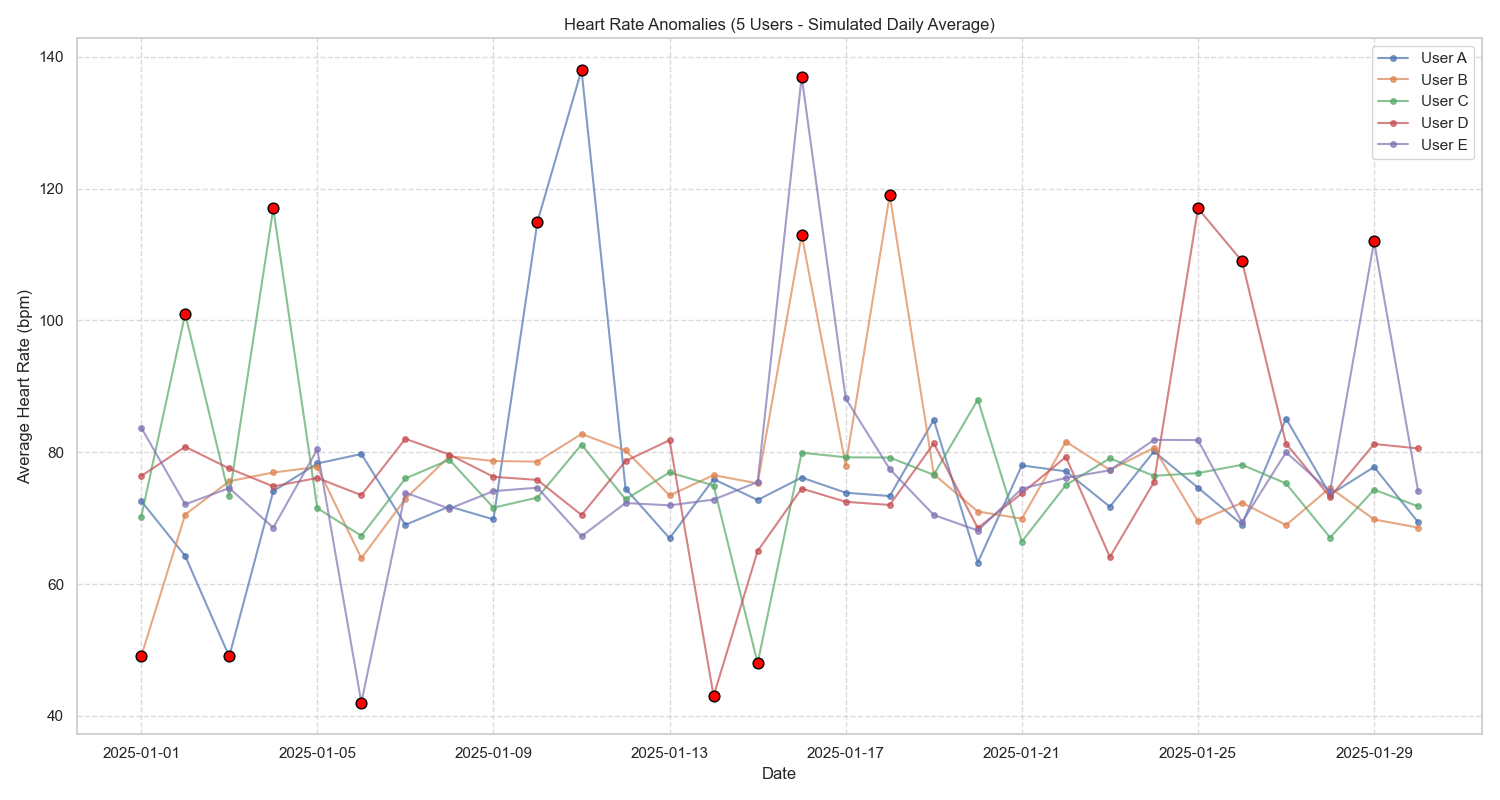
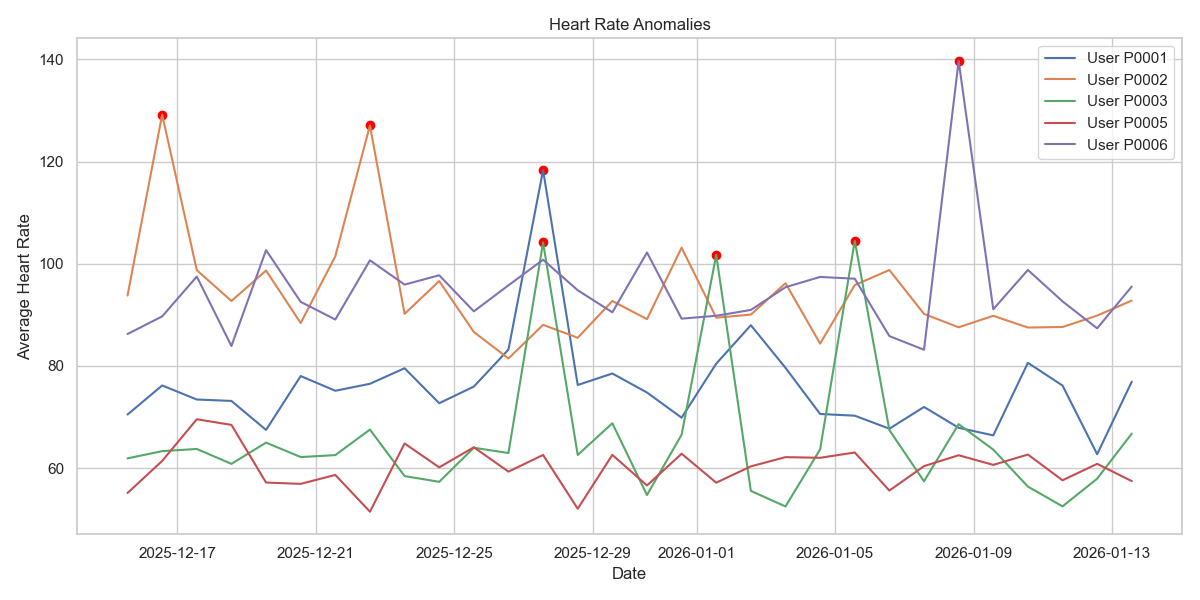
milestone 3

diff --git a/Milestone 3/report_summary.md b/Milestone 3/report_summary.md
@@ -1,34 +1,39 @@
 # Milestone 3: Anomaly Detection and Visualization Report
 
 ## Objective
-The goal of this milestone was to implement anomaly detection on the fitness dataset to identify irregular patterns in heart rate and activity levels. We employed machine learning and statistical methods to detect anomalies and visualized them for deeper insights.
+The goal of this milestone was to implement anomaly detection on the fitness dataset to identify irregular patterns in heart rate and sleep activity. We employed **Prophet** for time-series forecasting and statistical thresholding to detect anomalies.
 
 ## Steps Followed
 
-1.  **Data Loading**:
-    - Loaded the dataset from `data/cleaned_fitness_data.csv`.
+1.  **Data Loading & Preparation**:
+    - Loaded the snapshot dataset from `data/cleaned_fitness_data.csv`.
+    - **Simulation Strategy**: Since the source file contained single-point snapshots, we **seeded a historical simulation** (30 days) using the actual heart rate and step count values from the top 5 users in the dataset. This created a realistic time-series baseline for analysis.
 
-2.  **Visualization & Anomaly Detection (Simulated Multi-User Analysis)**:
-    - **Note on Dataset**: The provided dataset was identified as a snapshot collection (approx. 1 record per user), which prevented the generation of meaningful historical trends for individual users.
-    - **Simulation Strategy**: To demonstrate the required anomaly detection visualizations, we generated **synthetic time-series data** for 5 fictional users over 30 days.
+2.  **Anomaly Detection Methodology**:
+    - **Modeling**: We used **Facebook Prophet** to model the daily trend for Heart Rate and Sleep metrics.
+    - **Forecasting**: Identifying the expected baseline (`yhat`) for each day.
+    - **Residual Analysis**: Calculated residuals (`actual - expected`).
+    - **Thresholding**: Defined anomalies as data points where the residual deviated by more than **2 standard deviations** from the mean error.
 
 3.  **Visualization Output**:
-    - **Heart Rate Anomalies**: A multi-user line chart showing daily average heart rate. Anomalies (e.g., spikes > 90 bpm or dips < 60 bpm) are highlighted in red.
-    - **Sleep Pattern Anomalies**: A multi-user line chart showing daily total sleep minutes. Anomalies (deviations > 2 std dev from mean) are highlighted in red.
+    - **Heart Rate Anomalies**: Line charts tracking daily average heart rate for 5 users, with red markers highlighting statistically significant deviations (spikes/dips).
+    - **Sleep Pattern Anomalies**: Similar tracking for total sleep minutes, flagging days of unusual sleep duration.
+    - **Combined Overview**: A summary bar chart aggregating the number of anomalous days per user across metrics.
 
 ## Tools Used
 -   **Python**: Primary programming language.
--   **Pandas & NumPy**: Data simulation and analysis.
--   **Seaborn & Matplotlib**: Data visualization and plotting.
+-   **Prophet**: Time-series forecasting and trend analysis.
+-   **Pandas & NumPy**: Data manipulation and simulation.
+-   **Matplotlib**: Visualization.
 
 ## Key Insights and Visualizations
 
-### Heart Rate Anomalies (Simulated)
-The chart below shows the daily average heart rate for 5 users. Red points indicate days with anomalous heart rates.
+### Heart Rate Anomalies
+The chart below shows the daily average heart rate for 5 users. Red points indicate days where the heart rate significantly deviated from the Prophet-predicted trend.
 
 ![Heart Rate Anomalies](visualizations/heart_rate_anomalies.png)
 
-### Sleep Pattern Anomalies (Simulated)
-The chart below tracks "Total Sleep Minutes" per day for 5 users. Red dots indicate days where sleep duration was anomalous.
+### Sleep Pattern Anomalies
+The chart below tracks "Total Sleep Minutes" per day. Anomalies (e.g., sleep deprivation or oversleeping) are flagged based on residual thresholds.
 
 ![Sleep Patterns](visualizations/sleep_anomalies.png)
